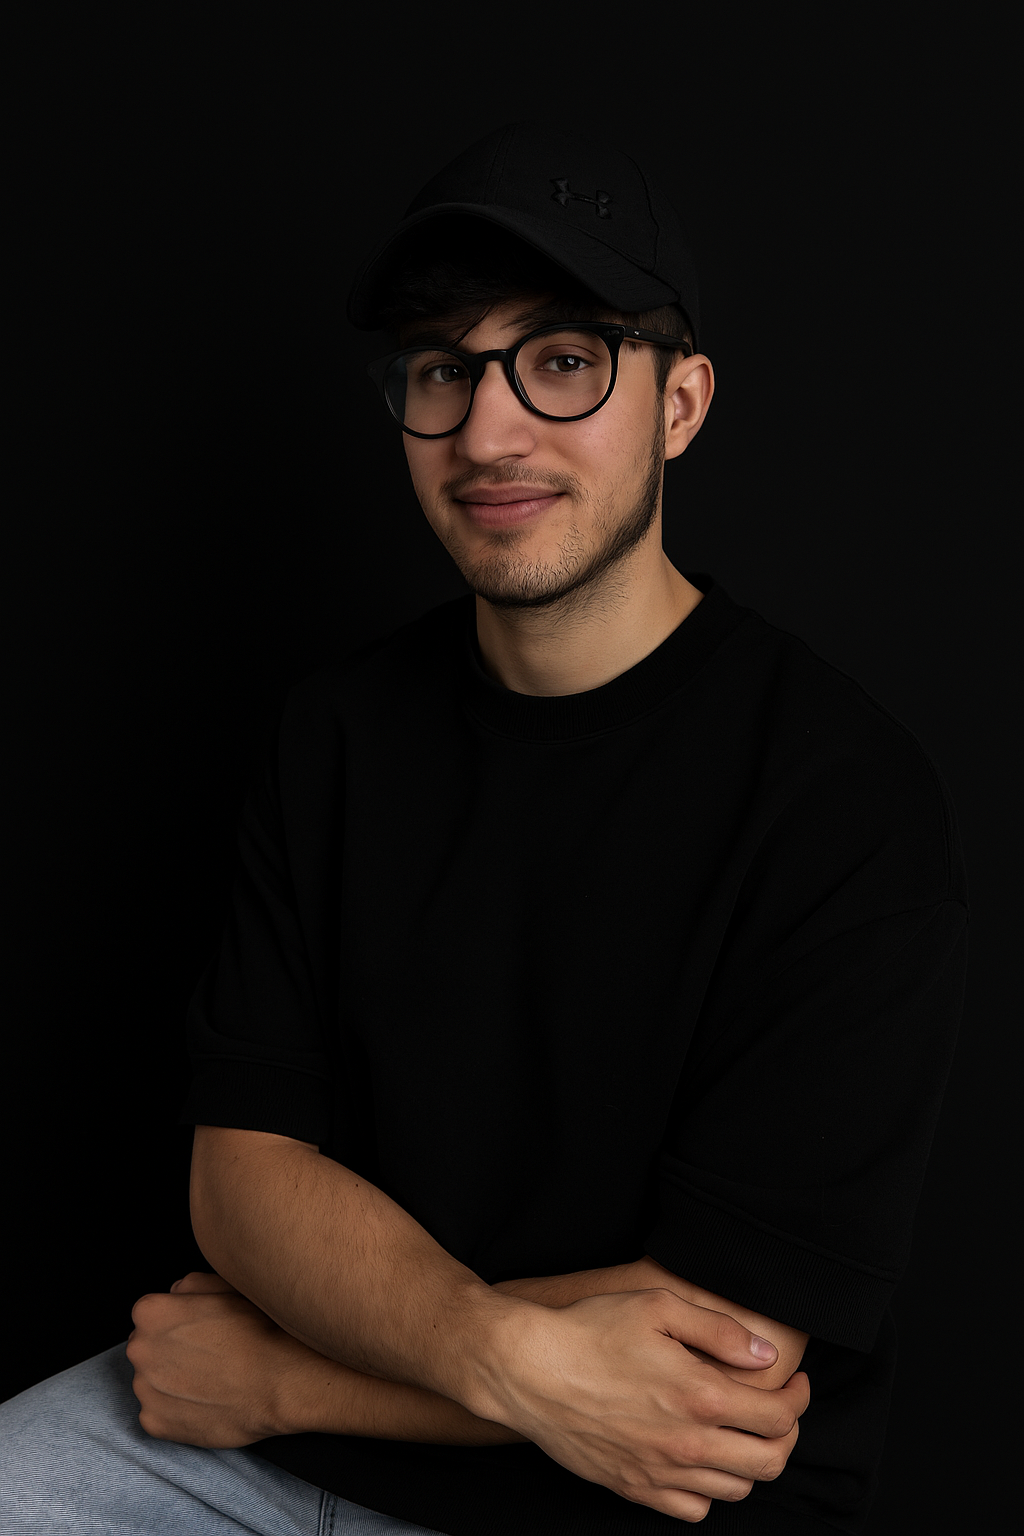
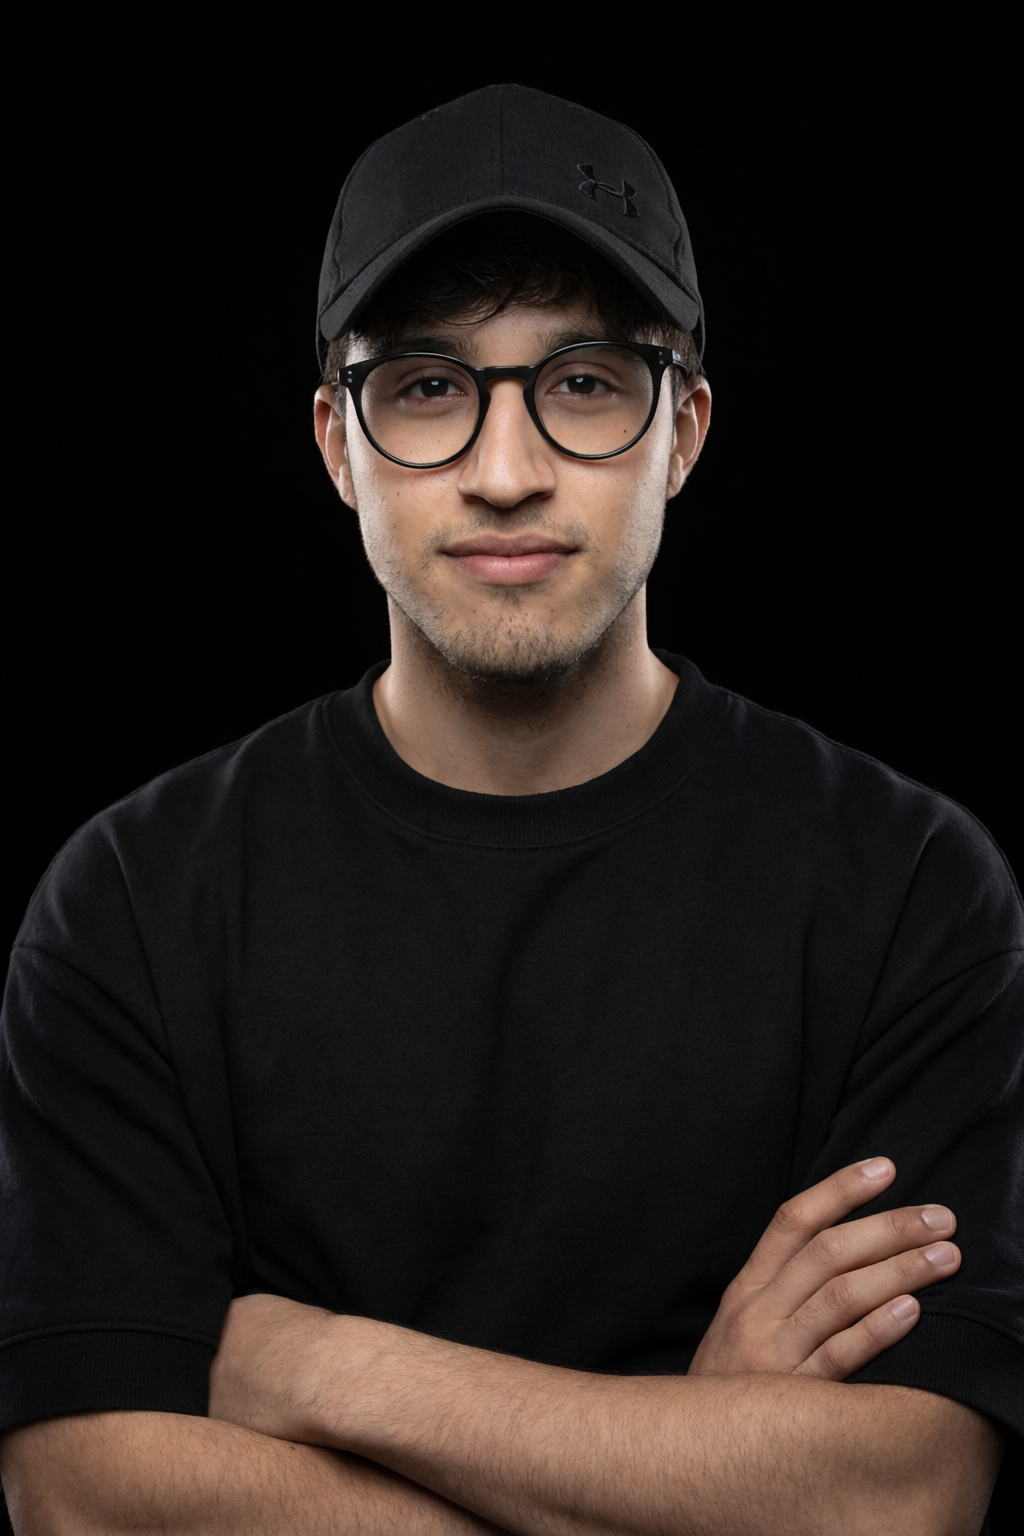
fix frontend

diff --git a/src/components/Footer/index.tsx b/src/components/Footer/index.tsx
@@ -49,7 +49,7 @@ export function Footer() {
                 fill={true}
                 alt={"Andrés Vélez - Full Stack Developer"}
                 src={`/me.png`}
-                className="object-cover object-[50%_0%] rounded-full contrast-[1.1] brightness-[0.9]"
+                className="object-cover object-[50%_30%] rounded-full contrast-[1.1] brightness-[0.9]"
               />
             </div>
             <h3 className="ml-3 text-4xl md:text-[5vw] font-light m-0">

diff --git a/src/components/Hero/index.tsx b/src/components/Hero/index.tsx
@@ -130,7 +130,7 @@ export const Hero = () => {
                       className="w-full h-auto grainy"
                       classNames={{
                         wrapper: "w-full !max-w-full",
-                        img: "object-cover w-full h-auto rounded-xl",
+                        img: "object-cover object-[50%_30%] w-full h-auto rounded-xl",
                       }}
                     />
                   </div>

diff --git a/src/app/sitemap.ts b/src/app/sitemap.ts
@@ -25,3 +25,4 @@ export default function sitemap(): MetadataRoute.Sitemap {
   ]
 }
 
+

diff --git a/src/components/Breadcrumbs/index.tsx b/src/components/Breadcrumbs/index.tsx
@@ -41,3 +41,4 @@ export function Breadcrumbs() {
   );
 }
 
+
